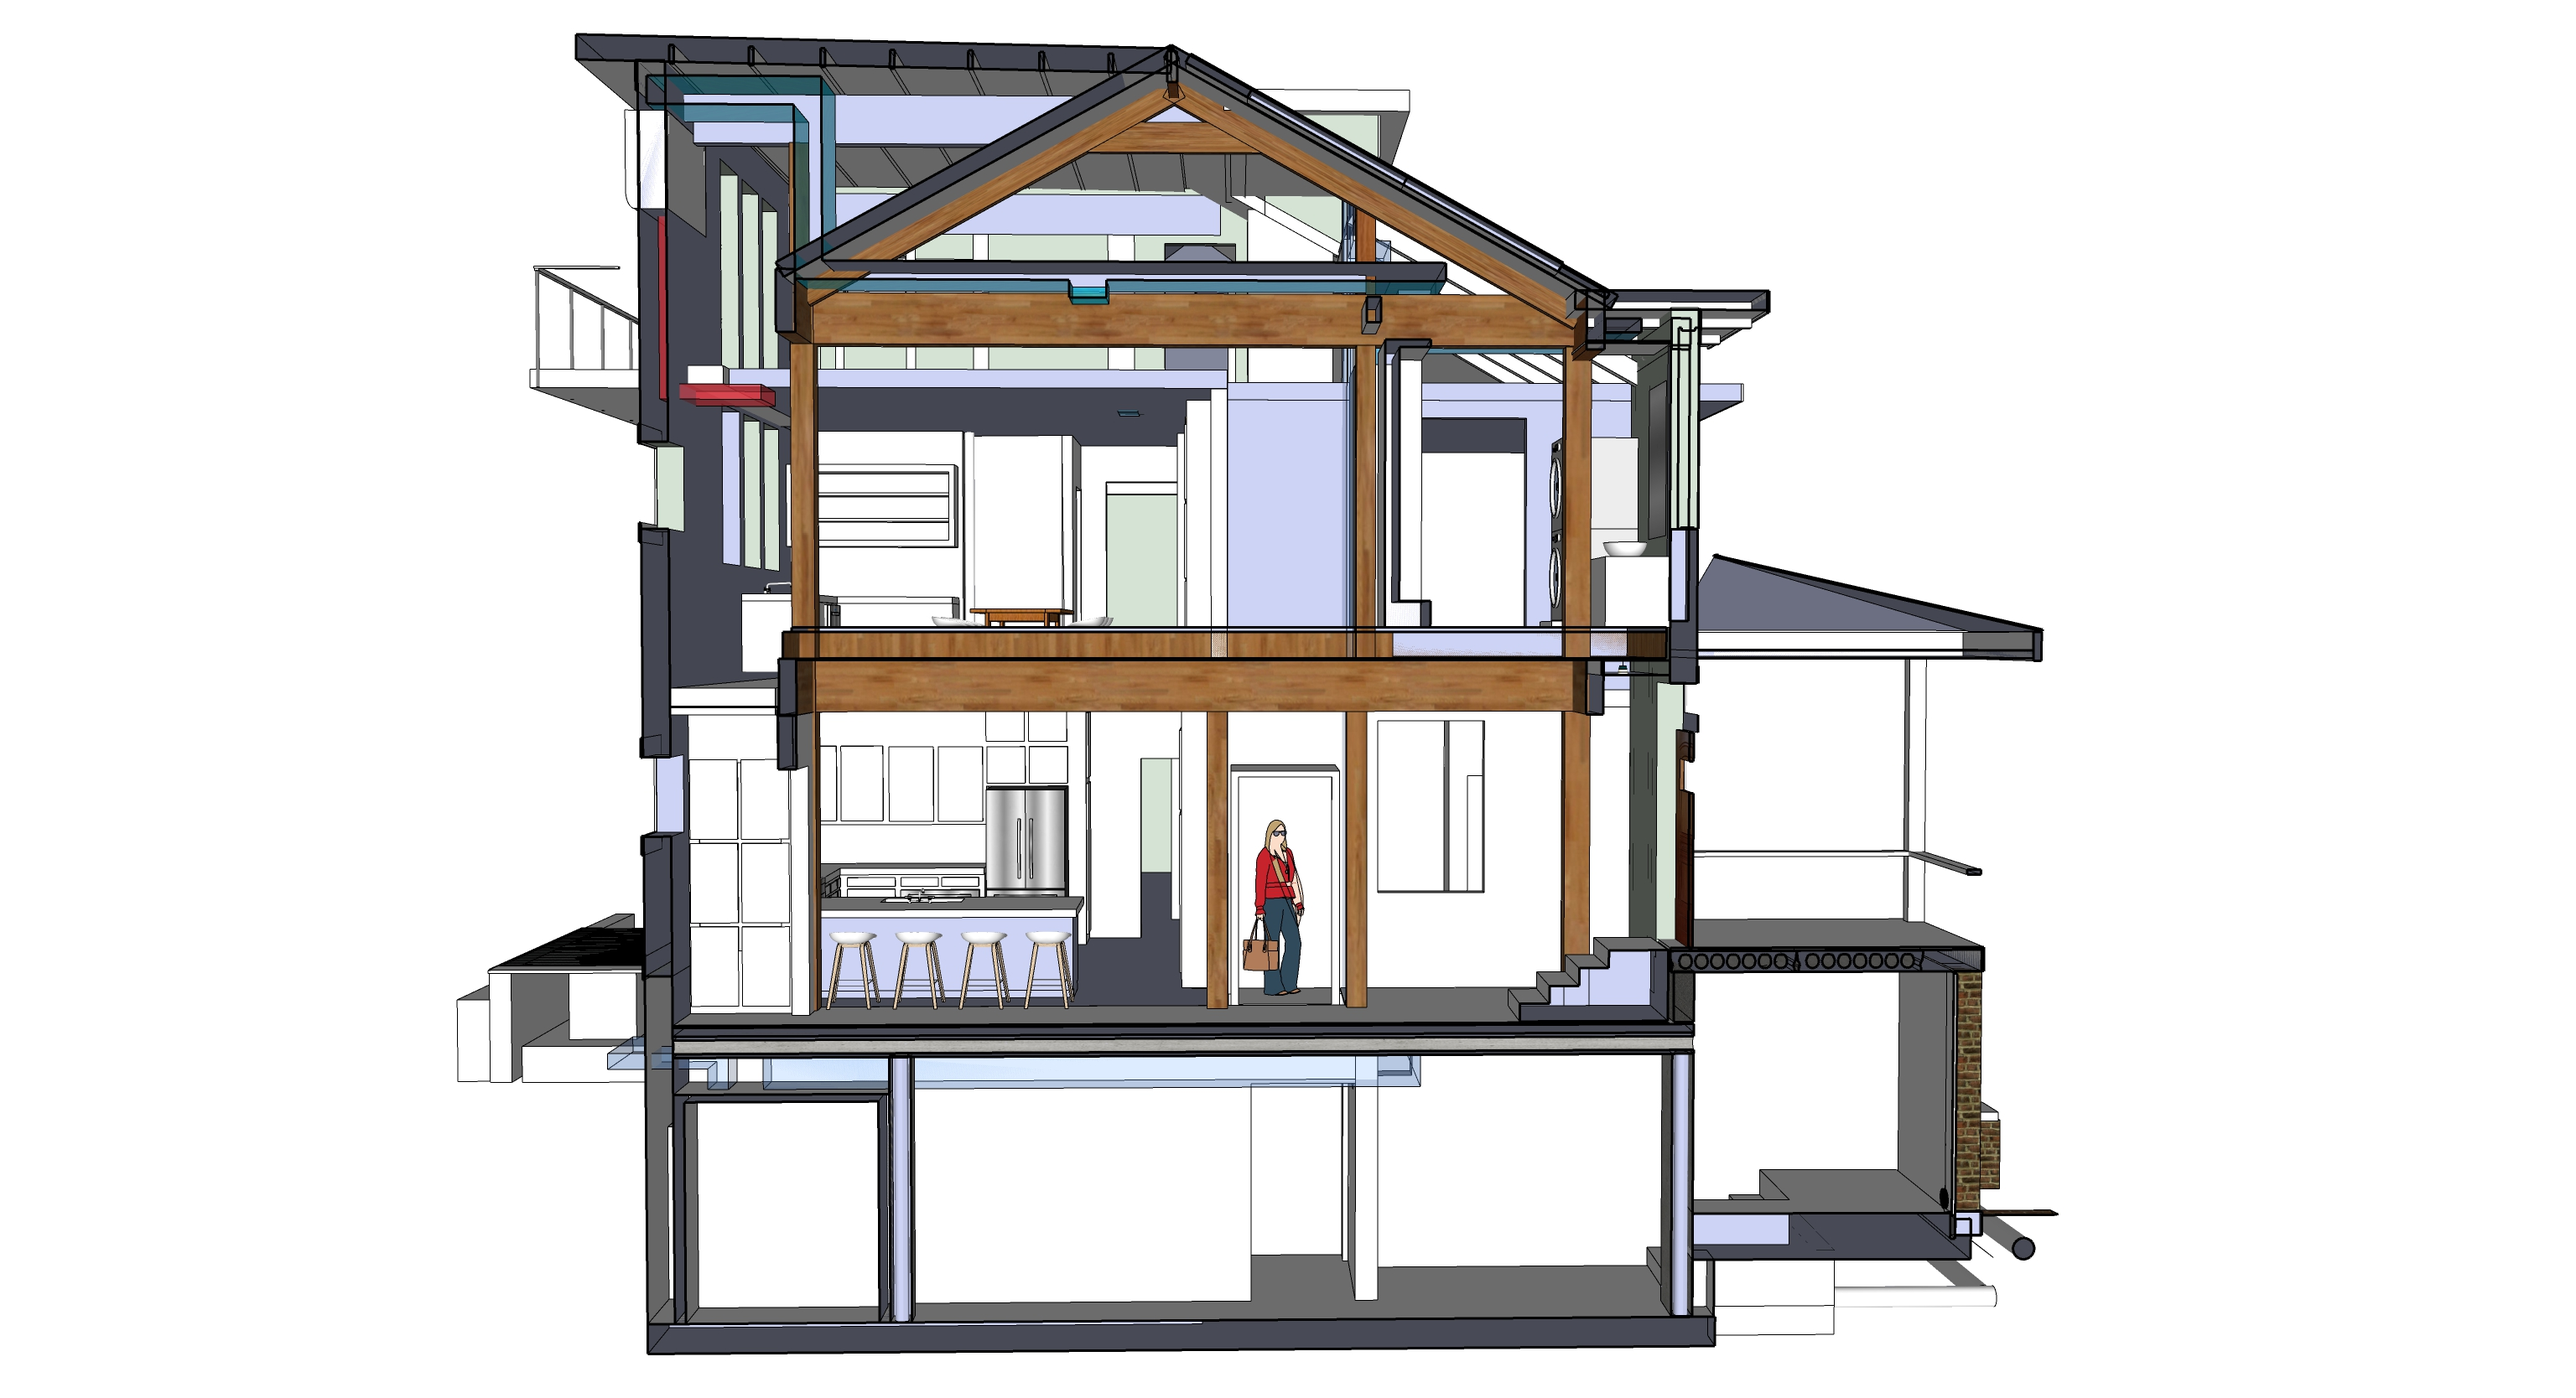
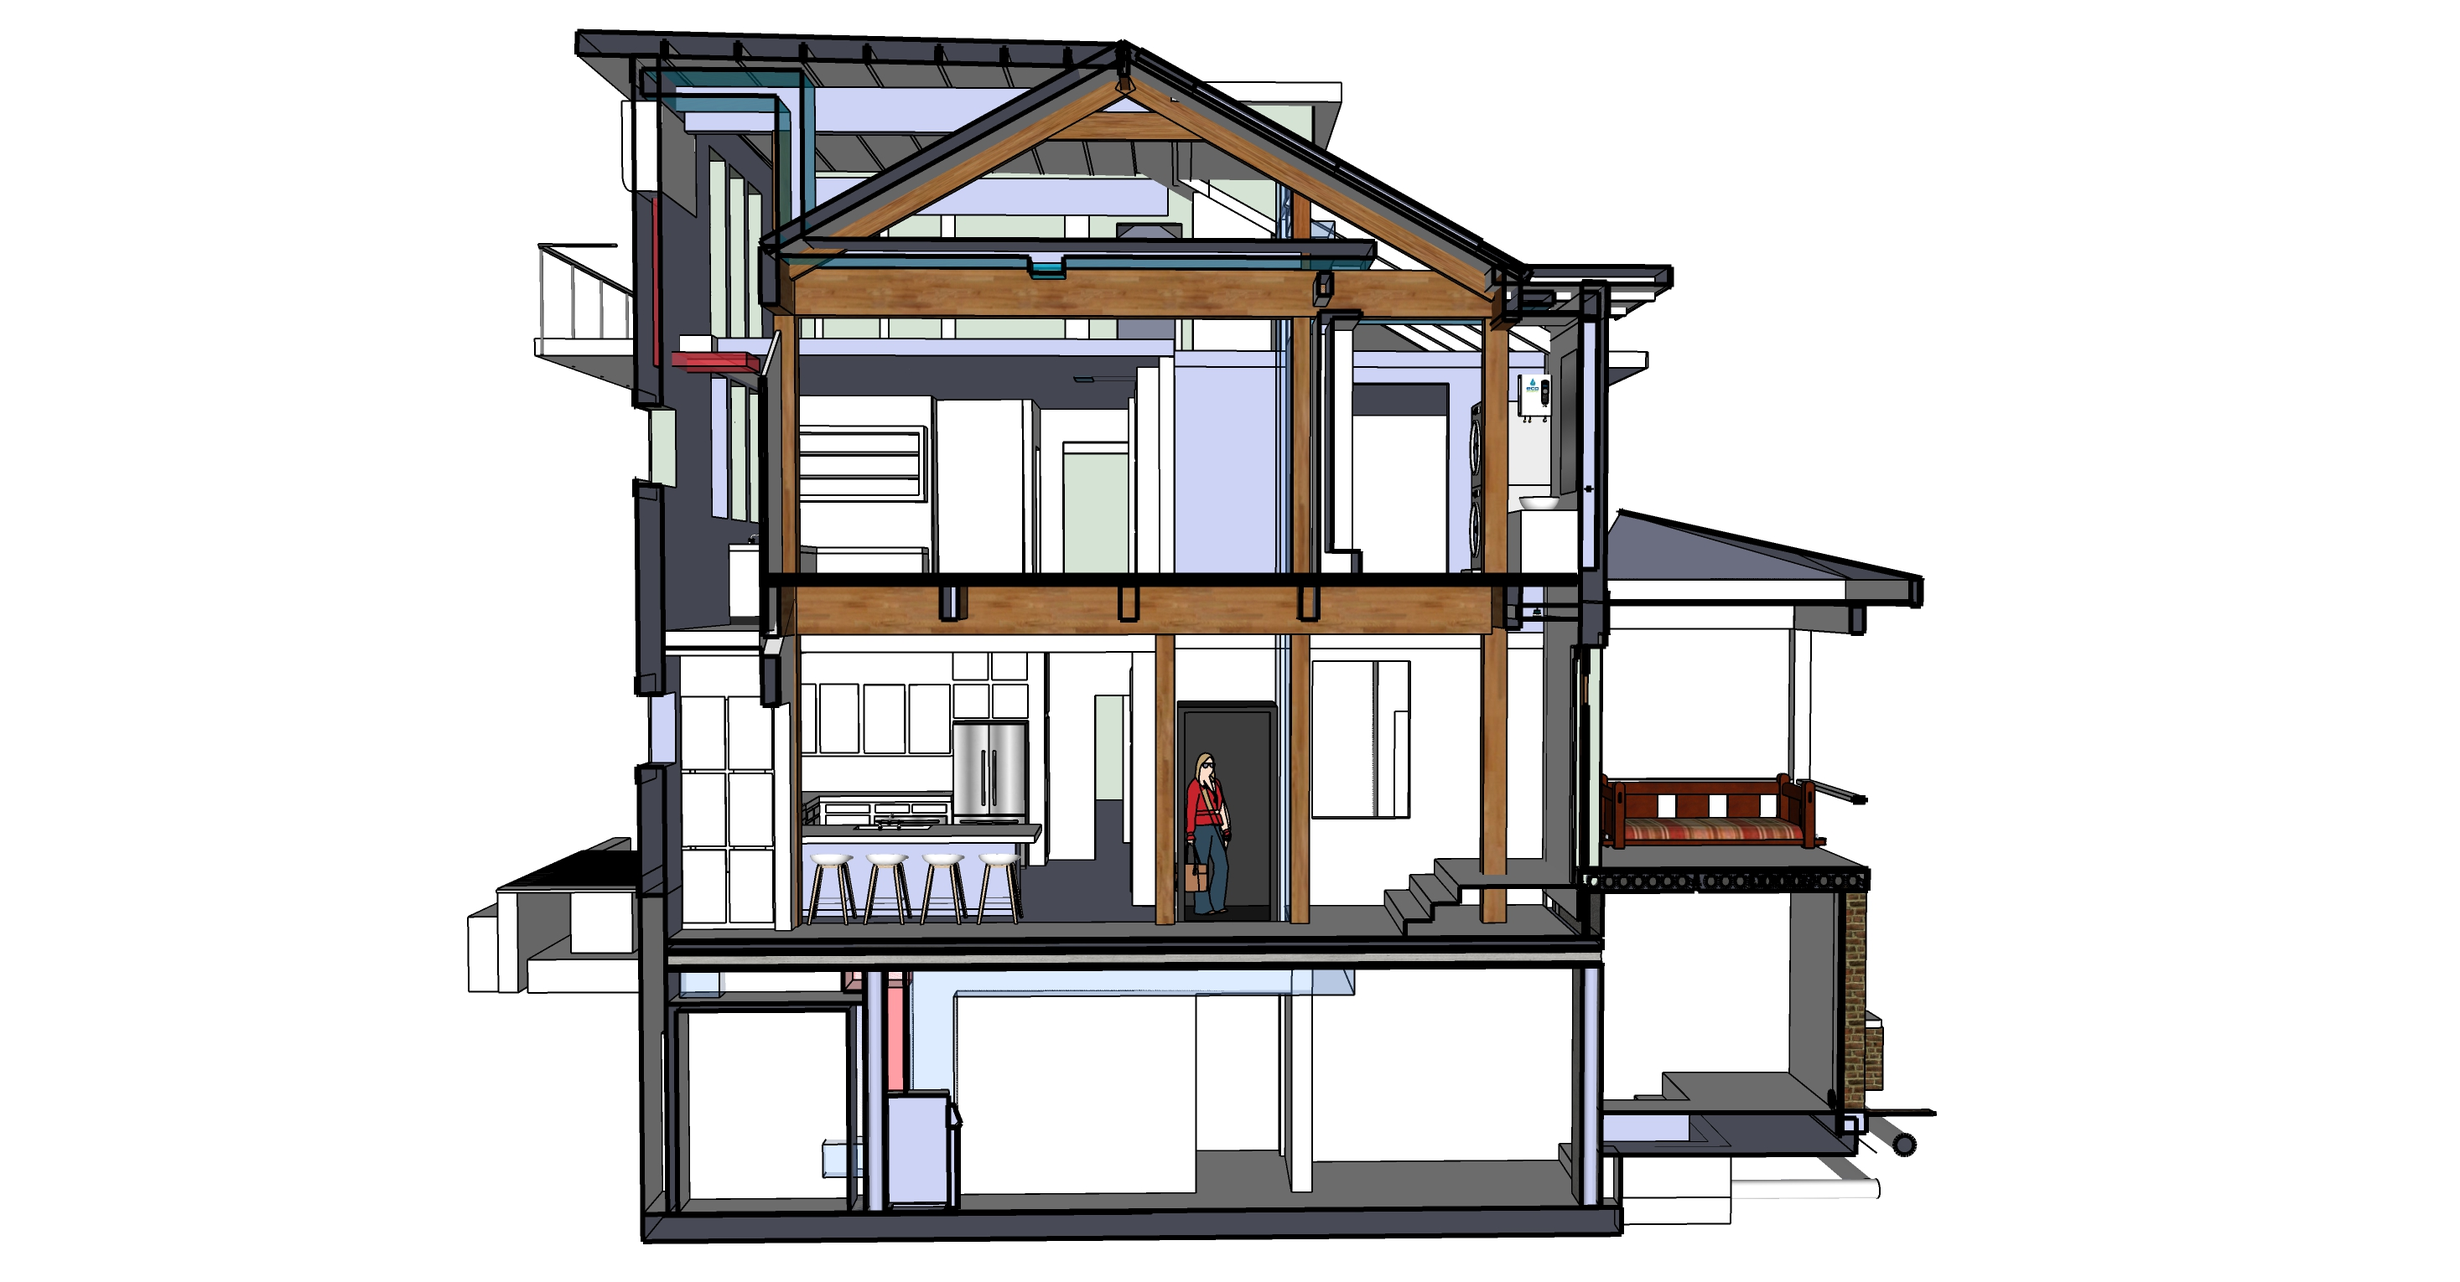
Update

Changed region(s): [[0.1861, 0.0, 0.8064, 0.983]]

diff --git a/index.html b/index.html
@@ -50,7 +50,7 @@
 <a href="elevations/img/side.jpg"><img src="elevations/img/side.jpg" style="width:100%; max-width: 1200px"></a>
 
 <h2>West Elevation</h2><br>
-<img src="elevations/img/4-levels.jpg" style="width:100%; max-width: 1200px">
+<a href="elevations/img/4-levels.jpg"><img src="elevations/img/4-levels.jpg" style="width:100%; max-width: 1200px"></a>
 
 <h2>Mass Timber Framework over Hollow Core (Coreslab)</h2><br>
 <img src="framework/img/framework-west.jpg" style="width:100%; max-width: 1200px">

diff --git a/phases/README.md b/phases/README.md
@@ -13,10 +13,12 @@ Phase 1 - Shed, Demo, AC Pad, Move AC Units
 1. Remove ceiling and south wall in both kitchens (small)
 1. Jackhammer and install cement pad for AC Units
 1. Move AC Units, extend freon lines
+1. Remove portion of brick wall, retain bricks
 
 Phase 2 - Cement work, secure basement
 1. Basement, north bumpout foundation
 1. 3 rear porch pedistal bases (small)
+1. Add weatherproof west door to connect basement to crawl space
 1. Grate over HVAC units
 1. Coreslab
 1. Basement window under porch
@@ -32,10 +34,13 @@ Phase 3 - Framework, Roofing, Windows, Siding
 1. Windows and siding on addition
 1. Doors on north storage compartments
 
-Phase 4 - Stairways
+Phase 4 - Drywall, Stairways
+1. Drywall
+2. Vent covers and switch covers
 1. 3 stairways (maybe steel stairway in basement)
 1. South entrance wood stairway (4 steps)
 1. Steps up to master bedroom
+1. Updates to door under house, east side
 
 Phase 5 - Short freezer
 1. Place new freezer unit upstairs (will move downstairs later)
@@ -44,7 +49,7 @@ Phase 6 - Exterior painting and storm windows
 1. Remove old black storm windows and security bars
 1. Minor repairs, paint prep, filling holes
 1. Paint entire exterior
-1. Add white storm windows
+1. Add white storm windows (Window World used across the street)
 
 Phase 7 - Grey water, Solar, AC Units, Heating unit in basement
 1. Grey water system
@@ -77,6 +82,9 @@ Phase 11 (optional, not in current financing)
 1. Light-well material using elevator shaft
 1. Basement chiller and elevator shaft duct
 1. Elevator
+
+
+1. Repoint bricks, reduce vent openings, close holes, new trim on front porch
 <br><br>
 
 ---
@@ -104,24 +112,38 @@ Atlanta-based Thomas Concrete has been using the Canadian CarbonCure system sinc
 
 ### Hollow Core
 
-Heat-sink in the main floor coreslab stores solar energy to radiat out at night.  
+Heat-sink in the main floor coreslab stores solar energy, radiates out at night.  
 
 8” slab + 2” concrete topping. 10” total.  
-<!--
-4’ wide hollow core slabs.  2 @ 24’ 5 ½”, 4 @ 20’ 11 ½”, 3 @ , 3 @ 10’ 11”, o1 @ 4’ 3 ¾”, 1 @ 3’ 10 ½”  
--->
+
+ 2” Acid Wash Cement cover (Structural, composite concrete topping)
+
+ <!--
+ 	Coreslab Structure (Atlanta) - Met Sales Rep Jay Rubinson jrubinson@coreslab.com 770-471-1150
+ -->
+
+<a href="http://www.concretetech.com/Adobe/hollowcorebuildingbrochure.pdf"><img src="img/hollowcore-drilling.png" style="width:100%; max-width: 800px"></a><br><br>
 
 
 [Concrete Industries - Indiana](https://concreteindustries.com/hollowcore/)
 **Specs**  
 [8" Hollowcore with 2" composite topping](https://concreteindustries.com/wp-content/uploads/2017/07/Hollowcore-Load-Table-2in-Composite.pdf)  
 [8" Hollowcore with no composite topping](https://concreteindustries.com/wp-content/uploads/2017/07/Hollowcore-Load-Table-No-Composite.pdf)
+<br><br>
 
 <img src="../phases/img/concrete/core-slab-pcm.jpg" style="width:100%; max-width:800px"><br>
 
-PCM placed in concrete core slab tubes as a thermal storage and supply system <a href="https://www.sciencedirect.com/science/article/abs/pii/S0378778815300591">PCM Research</a><br>
+PCM placed in concrete coreslab tubes as a thermal storage and supply system <a href="https://www.sciencedirect.com/science/article/abs/pii/S0378778815300591">PCM Research</a><br>
+Not that external air is NOT sent through the coreslab. Air would move in a loop.
 <br><br>
 
+<a href="../phases/img/coreslab/coreslab-ducts.jpg"><img src="../phases/img/coreslab/coreslab-ducts.jpg" style="width:100%; max-width:1200px"></a><br><br>
+Air would leave the electric heating unit on the right side, move though one of ten 50 foot loops in the coreslab basement ceiling, and return for reheating via the left duct.<br><br><br>
+
+
+<a href="../phases/img/coreslab/coreslab-south.jpg"><img src="../phases/img/coreslab/coreslab-south.jpg" style="width:100%; max-width:1200px"></a><br><br>
+U-shaped pipes would connect sets of two pipes to create 10 loops.
+<br><br>
 
 <!--
 Student researcher explaining an innovative [seismic retrofit](https://www.constructionspecifier.com/new-research-council-formed-for-concrete-industry/). 
@@ -132,6 +154,9 @@ Send suggestions to [ACI Foundation](https://www.acifoundation.org/research/sugg
 ### Precast Concrete
 
 [Precast Concrete Suppliers serving Georgia](https://www.thomasnet.com/georgia/precast-concrete-17311002-1.html)  
+
+[Precast Concrete Directory](https://www.pci.org/PCI/Directories/PCICertifiedPlants.aspx)  
+
 
 ### Concrete with Cellulose Nanocrystals
 
@@ -149,21 +174,60 @@ ICF Builder
 triple pane windows with argon fill on the north side of the house
 -->
 
+
+
+## North AC Unit, Grey Water Storage and Grate over HVAC Units
+
 ### Radiant pumping, chiller and air-handling unit.
 <!--A means to avoid duct work applied at the Kendeda Living Building.  -->
 
 Our central elevator shaft will allow chilled air to fall from an attic AC unit.  
 A small AC unit will also reside within south porch ceiling.  
-Two existing HVAC units will reside under grate on north side of house.  
-Chiller in basement will pump cold air up a duct within elevator shaft.  
 
-
-## North AC Unit, Grey Water Storage and Grate over HVAC Units
+<!--
+Not using - Water Furnace Specs
+https://www.waterfurnace.com/literature/envision/im1008hn.pdf
+-->
 
 <a href="../framework/img/hvac-and-greywater.jpg"><img src="../framework/img/hvac-and-greywater.jpg" style="width:100%; max-width:1200px"></a>  
 <br>
 
 
+Two existing HVAC units will reside under grate on north side of house.  
+Chiller in basement will pump cold air up a duct within elevator shaft.  
+About <a href="https://www.hpacmag.com/features/radiant-cooling/">radiant-cooling</a>  
+
+<h2>West Elevation</h2><br>
+<a href="../elevations/img/4-levels.jpg"><img src="../elevations/img/4-levels.jpg" style="width:100%; max-width: 1200px"></a>
+
+### HVAC Duct Fabricators
+Atlanta Supply - Logan Circle (for Ducts, custom)  
+Custom sheet metal (pricy) [B & S Sheet Metal Fabricators Inc.](https://bsmetalfabricators.com/)  
+
+Current HVAC in crawl space: Ducane  
+Sept 2014 - Circuit board replaced  
+Motor did not need to be replaced (m#FPBB100A5 S#20251005A PRODUCT#1006559993)  
+
+## Water Heaters
+
+2 Tankless - One by laundry machine, one in basement by kithen  
+
+<a href="https://www.facebook.com/watch/live/?v=10160036402400436&ref=watch_permalink">Amy</a> presenting Rinnai Sensei tankless water heater, newer than Navien.  
+
+1 Tank understairs  
+<a href="http://www.marathonheaters.com/cons_specs.html">Rheem's Marathon Water Heater</a> - "The most durable electric water heater" - Under stairs  
+
+
+## Repointing Bricks
+
+Sandstone mortar color, similar to left below. [Mortar Mix for Historic Homes](https://gpna.org/historic-home-care)<br><br>
+
+<a href="img/bricks/mortar-sandstone.png"><img src="img/bricks/mortar-sandstone.png" style="width:100%; max-width:1200px"></a> 
+<br><br>
+
+More like the wall...<br><br>
+
+<a href="img/bricks/brick-existing.png"><img src="img/bricks/brick-existing.png" style="width:100%; max-width:1200px"></a> 
 
 ---
 

diff --git a/kitchen/README.md b/kitchen/README.md
@@ -4,12 +4,69 @@
 <img src="img/kitchen.jpg" style="width:100%; max-width: 1200px">  
 <br>
 
+Spot lights on walls (adjustable eyeball)    
+
+2 or 3 medium pendant lights over island  
+
+“Bridge style” sink faucet - pipe connects faucets  
+No divider in sink.
+
+Concealed trash and recycling bin pull out.  
+
+Ikea comparable to more expensive custom cabinet makers.
+Make sure Ikea surface quality is consistent. 
+Ceasarstone - most durable
+<!--
+Jill Blass has Shaker-style panels.
+Mark Mroz builds custom, and the cost is only a little more than Ikea.
+He assembles it all from wood and uses his spray shop.
+-->
+
 <a href="https://www.houzz.com/photos/shingle-style-home-in-hanover-nh-victorian-kitchen-burlington-phvw-vp~106086"><img src="img/kitchen-windows.jpg" style="width:100%; max-width: 1200px"></a>  
 
 
-<img src="img/kitchen-blue-counters.jpg" style="width:100%; max-width: 1200px">  
+<a href="img/kitchen-blue-counters.jpg"><img src="img/kitchen-blue-counters.jpg" style="width:100%; max-width: 1200px"></a>  
 
 <a href="https://www.houzz.com/photos/historic-whole-house-renovation-screened-porch-craftsman-porch-atlanta-phvw-vp~3849435"><img src="../porch/img/porch.jpg" style="width:100%; max-width: 1200px"></a>
+
+<!--
+Old Kitchen window dimensions (to be removed):
+94” rod (86” trim to trim with 4” on each side) - Used 83” to 152”
+
+LENDA curtains - shorter 98” height (55 width x 2) - $19.98
+http://www.ikea.com/us/en/catalog/products/30111978/
+http://www.ikea.com/us/en/catalog/products/S99929241/
+
+Curtain Brackets - (RÄCKA might not come with brackets)
+3 brackets in kitchen (for center) BETYDLIG bracket, black - $1.49 each
+http://www.ikea.com/us/en/catalog/products/60217228/
+
+Lenda white curtains (Ikea) - Allow about 3” per side
+Rods also from Ikea.
+
+Maybe Smith & Noble “black out” roller shade - white inside and out
+
+
+White-wash technique:
+Home Depot Minwax White wash - 
+1 pass for the least opaque to still see wood grain.
+
+
+-->
+# Craft Room
+
+Tiles behind open shelf<br><br>
+
+<a href="img/craftroom.jpg"><img src="img/craftroom.jpg" style="width:100%; max-width: 1200px"></a>  
+
+<!--
+Bathroom
+
+Genny Drash used Minwax Wood Finish (Penetrates, Stains & Seals) - Classic Grey 271 - for Poplar wood walls, no drywall 
+
+-->
+
+
 
 [Home](../) | [Phases](../phases/)
 

diff --git a/README.md b/README.md
@@ -82,6 +82,6 @@ On top of glulam columns and beams, decking made of nail laminated timber (NLT) 
 
 [Home](./) | [Kitchen](kitchen/) | 
 <a href="livingroom">Living Room</a> | 
-<a href="basement">Phases</a>
+<a href="phases">Phases</a>
 
 
